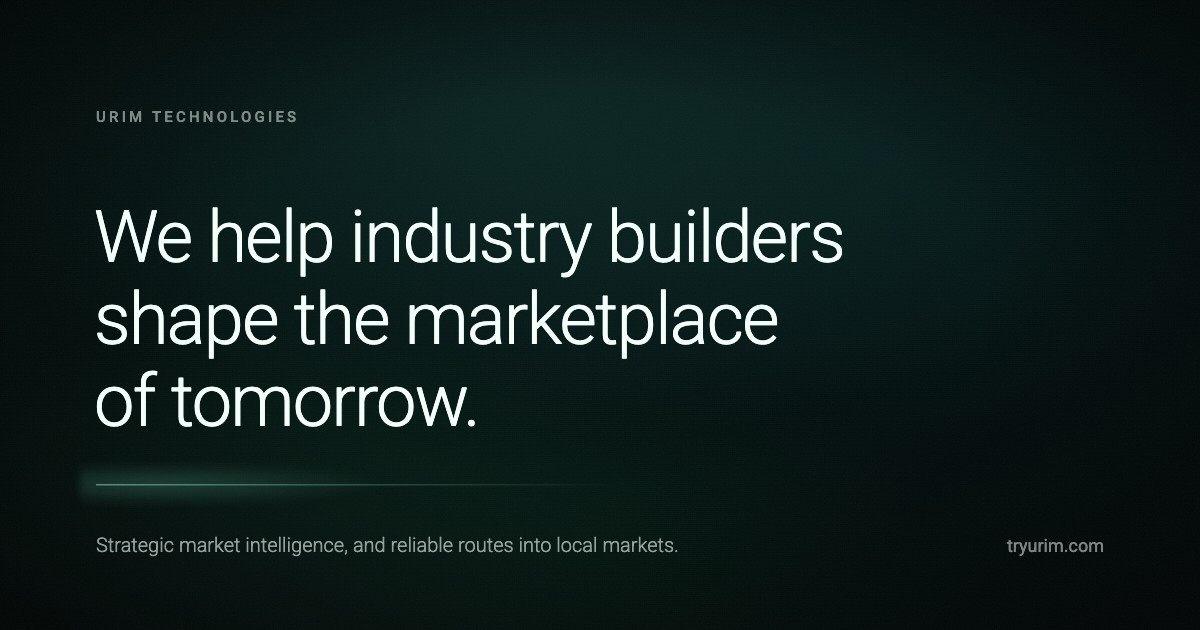
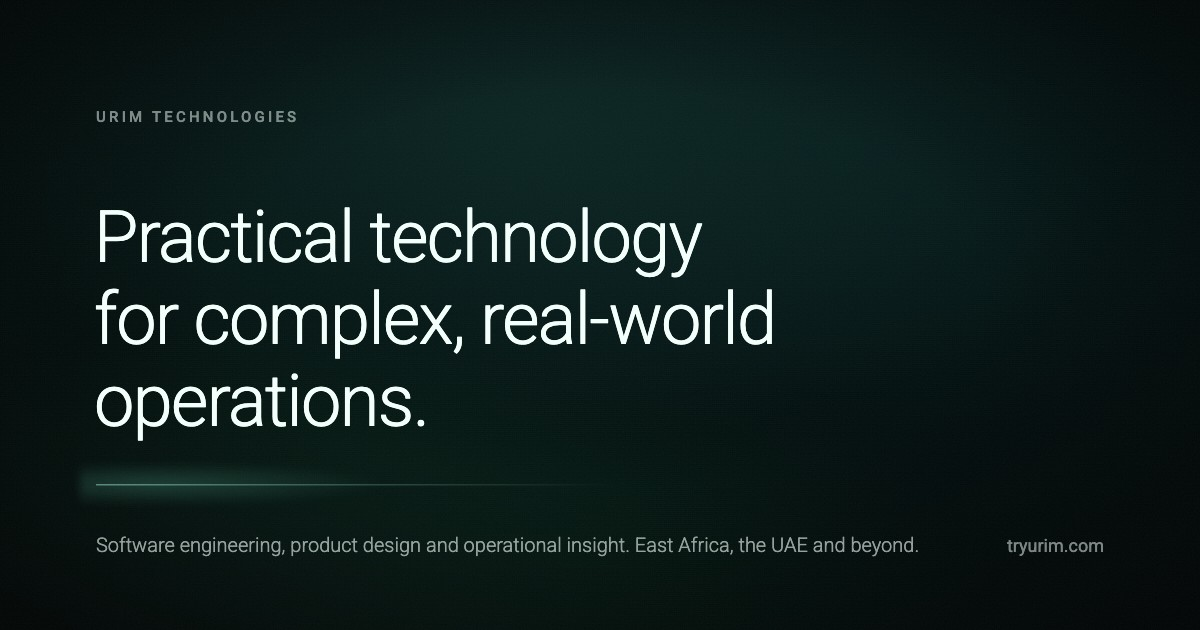
Copy rewritten from the capabilities statement (Draft R3)
Practical technology for real-world operations: new hero, five capabilities,
four-step approach, Why URIM, team of four. Share card re-rendered.

Changed region(s): [[0.0617, 0.3317, 0.7092, 0.573], [0.0925, 0.573, 0.4008, 0.6937], [0.0925, 0.8444, 0.7708, 0.8746]]

diff --git a/index.html b/index.html
@@ -4,22 +4,22 @@
 <meta charset="utf-8">
 <meta name="viewport" content="width=device-width, initial-scale=1, viewport-fit=cover">
 <title>URIM Technologies</title>
-<meta name="description" content="URIM Technologies is a technology solutions provider that helps industry builders shape the marketplace of tomorrow. We connect strategic market intelligence with reliable routes into local markets.">
+<meta name="description" content="Practical technology for complex, real-world operations. URIM Technologies brings together software engineering, product design and operational insight, with team presence in East Africa and the UAE.">
 <meta name="robots" content="index,follow">
 <meta name="theme-color" content="#020e0d">
 <link rel="canonical" href="https://tryurim.com/">
 <meta property="og:type" content="website">
 <meta property="og:site_name" content="URIM Technologies">
 <meta property="og:title" content="URIM Technologies">
-<meta property="og:description" content="We help industry builders shape the marketplace of tomorrow. Strategic market intelligence, and reliable routes into local markets.">
+<meta property="og:description" content="Practical technology for complex, real-world operations. URIM Technologies brings together software engineering, product design and operational insight, with team presence in East Africa and the UAE.">
 <meta property="og:url" content="https://tryurim.com/">
 <meta property="og:image" content="https://tryurim.com/assets/og.jpg">
 <meta property="og:image:width" content="1200">
 <meta property="og:image:height" content="630">
-<meta property="og:image:alt" content="We help industry builders shape the marketplace of tomorrow.">
+<meta property="og:image:alt" content="Practical technology for complex, real-world operations.">
 <meta name="twitter:card" content="summary_large_image">
 <meta name="twitter:title" content="URIM Technologies">
-<meta name="twitter:description" content="We help industry builders shape the marketplace of tomorrow. Strategic market intelligence, and reliable routes into local markets.">
+<meta name="twitter:description" content="Practical technology for complex, real-world operations. URIM Technologies brings together software engineering, product design and operational insight, with team presence in East Africa and the UAE.">
 <meta name="twitter:image" content="https://tryurim.com/assets/og.jpg">
 <link rel="icon" href="/assets/favicon.svg" type="image/svg+xml">
 <link rel="icon" href="/assets/favicon-32.png" sizes="32x32" type="image/png">
@@ -45,8 +45,8 @@
   <section class="hero">
     <div class="wrap">
       <p class="eyebrow rise">URIM Technologies</p>
-      <h1 class="rise">We help industry builders shape the marketplace of tomorrow.</h1>
-      <p class="lede rise">URIM Technologies is a technology solutions provider. We connect strategic market intelligence with reliable routes into local markets, for companies operating in complex emerging markets.</p>
+      <h1 class="rise">Practical technology for complex, real-world operations.</h1>
+      <p class="lede rise">We bring together software engineering, product design and operational insight to build digital tools shaped around the people, processes and environments they serve. International technology experience, with team presence in East Africa and the UAE.</p>
       <div class="actions rise">
         <a class="btn" href="#contact">Get in touch</a>
         <a class="link" href="#about">Who we are</a>
@@ -59,94 +59,65 @@
     <div class="wrap">
       <div class="section-head">
         <p class="eyebrow">Who we are</p>
-        <p class="statement">We believe complex markets become accessible when business knowledge, local market expertise and reliable relationships come together.</p>
+        <p class="statement">Technology built around how people actually work.</p>
       </div>
 
       <div class="row">
-        <h3>Our purpose</h3>
+        <h3>What we do</h3>
         <div class="body">
-          <p>Companies need direction and access to suitable business partners. Local trading networks have experience, relationships and trust that outsiders often find difficult to assess. URIM connects these two sides and makes sure that both benefit from working together.</p>
-          <p class="quote">We make hard-to-reach markets accessible and enable better collaboration between companies and local trading networks.</p>
+          <p>URIM Technologies brings together software engineering, product design and operational insight to develop practical digital solutions shaped around the people, processes and environments they serve.</p>
+          <p>Combining international technology experience with regional knowledge and team presence in East Africa and the UAE, we help organisations translate operational challenges into intuitive, purposeful and adaptable digital tools.</p>
+          <p class="quote">Our focus is technology that simplifies work, supports better decision-making and delivers meaningful operational value.</p>
         </div>
       </div>
 
       <div class="row">
-        <h3>Who we work with</h3>
-        <div class="body">
-          <p>Our clients are corporate groups and international companies that manage their businesses across multiple countries or enter new emerging markets. We work with executive leadership, strategy, investment and commercial teams who need to understand connections, compare possible actions and explain the reasoning behind their decisions.</p>
-          <p>On the other side stand distributors, agents, traders and local networks. With URIM they gain access to business opportunities, find suitable partners and can demonstrate a reliability that has previously been difficult to make visible.</p>
-          <p>Clients think of URIM when they ask: <strong>how do we understand changes in our markets, make decisions about our business and find a reliable way to put them into practice on the ground?</strong></p>
-        </div>
-      </div>
-
-      <div class="row">
-        <h3>Our mission</h3>
-        <div class="body">
-          <p>We connect business knowledge with global and local market intelligence to support decisions with a clear rationale, and develop the infrastructure to put them into practice on the ground.</p>
-          <p>Our differentiation lies in connecting company context, global and local information, reasoned recommendations and feedback from implementation. For clients this becomes a continuous process: identify a development, assess its significance, decide on an action and track the outcome.</p>
-        </div>
-      </div>
-
-      <div class="row">
-        <h3>Our efforts</h3>
+        <h3>Capabilities</h3>
         <div class="body" style="max-width:none">
-          <div class="cards">
-            <div class="card">
-              <span class="k">Today</span>
-              <h4>Decision intelligence</h4>
-              <p>Bringing together business activities and information on markets, competitors, prices and risks to support decision-making.</p>
-            </div>
-            <div class="card">
-              <span class="k">In development</span>
-              <h4>Market access infrastructure</h4>
-              <p>Partner identification, traceable evidence of trustworthiness, connections to local channels and feedback from business operations.</p>
-            </div>
-            <div class="card">
-              <span class="k">Long term</span>
-              <h4>A system that learns</h4>
-              <p>A platform that serves different clients and countries and learns from verified outcomes.</p>
-            </div>
-          </div>
+          <dl class="values">
+            <div><dt>Digital strategy and advisory</dt><dd>Operational needs assessments, workflow analysis, requirements definition and technology planning.</dd></div>
+            <div><dt>Bespoke software development</dt><dd>Web applications, digital platforms, data systems, systems integration and applied AI.</dd></div>
+            <div><dt>Product design and user experience</dt><dd>Human-centred product design, intuitive interfaces and digital experiences tailored to real operating conditions.</dd></div>
+            <div><dt>Operational and financial intelligence</dt><dd>Data analysis, cost tracking, financial modelling, operational and impact reporting.</dd></div>
+            <div><dt>Implementation and support</dt><dd>Deployment planning, user training, system handover, maintenance and ongoing technical support.</dd></div>
+          </dl>
         </div>
       </div>
 
       <div class="row">
         <h3>How we work</h3>
         <div class="body" style="max-width:none">
-          <p style="max-width:62ch">Every core workflow shows what is changing, why it matters to the client, which action appears justified and what is needed to put it into practice. It then makes it possible to trace what actually happened.</p>
-          <div class="steps" style="margin-top:32px">
-            <div class="step"><span class="n">01</span><h4>Understand</h4><p>What is changing in the market, and why it matters.</p></div>
-            <div class="step"><span class="n">02</span><h4>Decide</h4><p>Which action appears justified, and with what confidence.</p></div>
-            <div class="step"><span class="n">03</span><h4>Enable access</h4><p>What is needed to put it into practice on the ground.</p></div>
-            <div class="step"><span class="n">04</span><h4>Learn from outcomes</h4><p>What actually happened, traced back to the decision.</p></div>
+          <div class="steps">
+            <div class="step"><span class="n">01</span><h4>Understand before building</h4><p>We begin with the people, workflows and operational challenges a system needs to support.</p></div>
+            <div class="step"><span class="n">02</span><h4>Design for real-world use</h4><p>Simplicity, accessibility and usability, for the practical conditions in which the technology will operate.</p></div>
+            <div class="step"><span class="n">03</span><h4>Develop, test and refine</h4><p>Focused, iterative development: testing with users, incorporating feedback, improving as needs evolve.</p></div>
+            <div class="step"><span class="n">04</span><h4>Build for long-term value</h4><p>Dependable, maintainable technology that adapts as organisations grow and requirements change.</p></div>
           </div>
+        </div>
+      </div>
+
+      <div class="row">
+        <h3>Why URIM</h3>
+        <div class="body" style="max-width:none">
           <ul class="rules">
-            <li><strong>Recommendations require a rationale and a clear confidence level.</strong><span>Users can examine the underlying information.</span></li>
-            <li><strong>Partner reliability is established through defined evidence.</strong><span>“Unknown”, “verified” and “proven through business performance” are distinct, traceable statuses.</span></li>
-            <li><strong>Global and local information is connected within the company’s context.</strong><span>An international market indicator is assessed alongside the relevant conditions on the ground.</span></li>
+            <li><strong>Integrated expertise.</strong><span>Technology, design, operational insight and financial analysis brought together within one team.</span></li>
+            <li><strong>Regional understanding.</strong><span>On-the-ground relationships and team presence across East Africa and the UAE, supported by international experience and networks in Europe and the US.</span></li>
+            <li><strong>Flexible delivery.</strong><span>Specialist expertise matched to the requirements of each engagement.</span></li>
+            <li><strong>Built around real operations.</strong><span>Through direct engagement with operational teams, observation of day-to-day processes and iterative testing with end users, we create solutions that fit real needs rather than forcing organisations to adapt to complex, off-the-shelf systems.</span></li>
           </ul>
         </div>
       </div>
 
       <div class="row">
-        <h3>What we hold to</h3>
+        <h3>Team</h3>
         <div class="body" style="max-width:none">
-          <dl class="values">
-            <div><dt>Clarity</dt><dd>We prioritise information and explain its significance for a specific decision.</dd></div>
-            <div><dt>Reliability</dt><dd>We make sources, freshness of information, uncertainty and the limits of our claims visible.</dd></div>
-            <div><dt>Respect for local context</dt><dd>We develop with existing traders, intermediaries and networks, taking their ways of working into account.</dd></div>
-            <div><dt>Mutual benefit</dt><dd>We state what each participant gains in return for their contribution.</dd></div>
-            <div><dt>Agency</dt><dd>We give participants clear, understandable control over the sharing of their business information.</dd></div>
+          <p style="max-width:62ch">Our leadership and advisory team brings together software development, digital transformation, programme strategy, finance and product design, across public-sector, corporate and investor environments on three continents.</p>
+          <dl class="values" style="margin-top:28px">
+            <div><dt>Leon Barth</dt><dd>Co-founder and Managing Director, Technology and Delivery. Founder of a full-stack development agency, with experience leading software engineering, digital product development and specialist delivery teams.</dd></div>
+            <div><dt>Gabriele Höynck</dt><dd>Co-founder, Programmes and Partnerships, East Africa. Tanzania-based strategic adviser with international experience across government, technology, hospitality and investment initiatives.</dd></div>
+            <div><dt>Graciella Gilg</dt><dd>Co-founder, Financial Analysis and Strategy. Master’s in Management from Hult International Business School, specialising in corporate and entrepreneurial finance.</dd></div>
+            <div><dt>Stephanie Workman</dt><dd>Senior Strategic Advisor. Silicon Valley veteran in brand strategy, company positioning, product strategy and creative leadership.</dd></div>
           </dl>
-          <p style="margin-top:28px;max-width:62ch">Additional data sharing requires a clear purpose, control over what is shared, and a tangible benefit for the partner providing the information.</p>
-        </div>
-      </div>
-
-      <div class="row">
-        <h3>Our vision</h3>
-        <div class="body">
-          <p class="quote" style="margin-top:0">A future in which companies and local trading networks can work together reliably and grow together, even in complex markets.</p>
-          <p style="margin-top:24px">Working with URIM should feel calm, precise and respectful. Our language is concrete. We explain our reasoning and acknowledge uncertainty.</p>
         </div>
       </div>
     </div>
@@ -157,8 +128,8 @@
       <div class="contact-grid">
         <div class="contact-intro">
           <p class="eyebrow" style="margin-bottom:20px">Contact</p>
-          <h2>Tell us about your markets.</h2>
-          <p>Where do you operate, and what are you trying to decide? Write to us and we will reply personally.</p>
+          <h2>Tell us about your operations.</h2>
+          <p>Where do you operate, and what is slowing the work down? Write to us and we will reply personally.</p>
           <div class="direct">
             <p class="eyebrow">Email</p>
             <a href="mailto:hello@urim.technology">hello@urim.technology</a>
